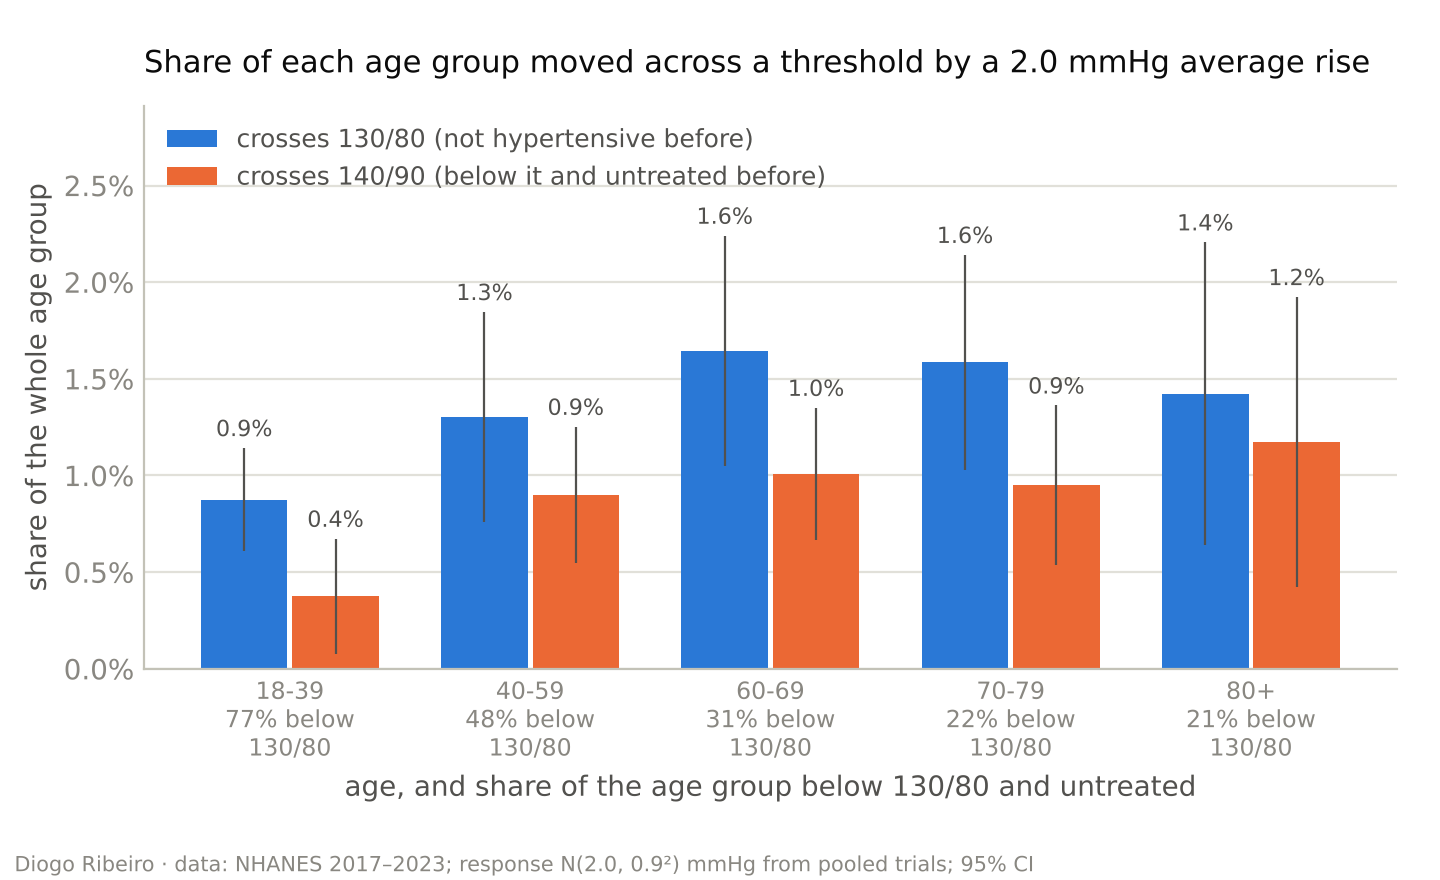
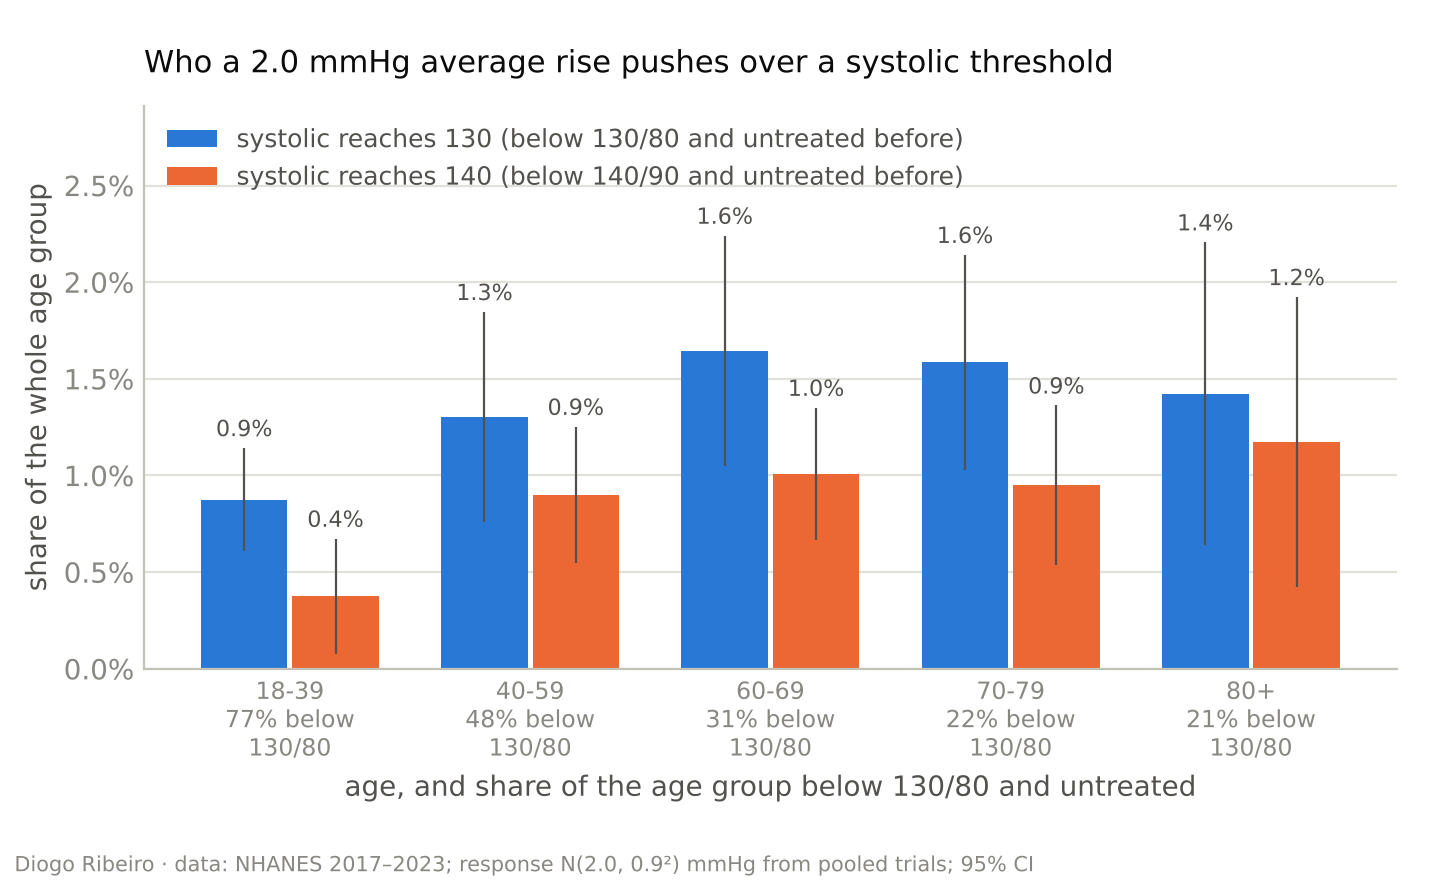
Age-cutoff errors with CVD counted as high risk; PCE test against printed guideline values; figure labels [skip ci]

Changed region(s): [[0.1562, 0.1227, 0.6875, 0.2148], [0.0938, 0.0614, 0.9688, 0.092]]

diff --git a/prescribing-individuals/prescribing/analyse.py b/prescribing-individuals/prescribing/analyse.py
@@ -177,7 +177,7 @@ def nhanes_absolute_risk(df: pd.DataFrame, mu: float, tau: float, shifts=(2.0, 5
     return pd.DataFrame(rows)
 
 
-RISK_CUTS = (0.075, 0.20)   # guideline categories: below 7.5%, 7.5-20%, 20% or more
+RISK_CUTS = (0.075, 0.20)   # 2019 ACC/AHA primary-prevention categories: below 7.5%, 7.5-20%, 20% or more
 
 
 def nhanes_risk_spread(x: pd.DataFrame) -> pd.DataFrame:
@@ -205,25 +205,38 @@ def nhanes_risk_spread(x: pd.DataFrame) -> pd.DataFrame:
     return pd.DataFrame(rows)
 
 
-def age_rule(x: pd.DataFrame, cutoffs=(65, 70), high=RISK_CUTS[1]) -> pd.DataFrame:
-    """An age cutoff judged as a classifier of high 10-year cardiovascular risk.
-
-    Among adults 40-79 without cardiovascular history: of the people the rule would
-    exclude (age >= cutoff), the share who are not at high risk; of the people at high
-    risk, the share the rule would let through (age < cutoff). Survey-weighted.
-    """
-    hi_risk = (x["r0"] >= high).astype(float)
+def _rule_errors(y: pd.DataFrame, cutoffs) -> list[dict]:
     rows = []
     for c in cutoffs:
-        older = x["age"] >= c
-        excl = stats.survey_mean(1 - hi_risk, x["w_osc"], x["stratum"], x["psu"], older)
-        miss = stats.survey_mean((~older).astype(float), x["w_osc"], x["stratum"], x["psu"], hi_risk.astype(bool))
-        rows.append({"cutoff": c, "high_risk_threshold": high,
+        older = y["age"] >= c
+        excl = stats.survey_mean(1 - y["high"], y["w_osc"], y["stratum"], y["psu"], older)
+        miss = stats.survey_mean((~older).astype(float), y["w_osc"], y["stratum"], y["psu"], y["high"].astype(bool))
+        rows.append({"cutoff": c,
                      "excluded_not_high_risk": excl.est, "excluded_not_high_risk_se": excl.se,
                      "n_excluded": excl.n,
                      "high_risk_below_cutoff": miss.est, "high_risk_below_cutoff_se": miss.se,
                      "n_high_risk": miss.n})
-    return pd.DataFrame(rows)
+    return rows
+
+
+def age_rule(x: pd.DataFrame, df: pd.DataFrame | None = None, cutoffs=(65, 70), high=RISK_CUTS[1]) -> pd.DataFrame:
+    """An age cutoff judged as a classifier of high 10-year cardiovascular risk.
+
+    Main population: adults 40-79 without cardiovascular history (the rows of x).
+    Of the people the rule would exclude (age >= cutoff), the share who are not at
+    high risk; of the people at high risk, the share the rule would let through
+    (age < cutoff). Survey-weighted. If df is given, a second version adds the
+    adults 40-79 with cardiovascular history and counts all of them as high risk.
+    """
+    y = x[["age", "w_osc", "stratum", "psu"]].assign(high=(x["r0"] >= high).astype(float))
+    rows = [dict(r, population="no cardiovascular history") for r in _rule_errors(y, cutoffs)]
+    if df is not None:
+        d = nhanes_frame(df)
+        c = d[(d["w_osc"] > 0) & d["age"].between(40, 79) & ~d["pregnant"].fillna(False).astype(bool) & d["cvd"]]
+        y2 = pd.concat([y, c[["age", "w_osc", "stratum", "psu"]].assign(high=1.0)], ignore_index=True)
+        rows += [dict(r, population="with cardiovascular history counted as high risk")
+                 for r in _rule_errors(y2, cutoffs)]
+    return pd.DataFrame(rows).assign(high_risk_threshold=high)
 
 
 def nhanes_replicates(df: pd.DataFrame) -> pd.DataFrame:

diff --git a/prescribing-individuals/prescribing/figures.py b/prescribing-individuals/prescribing/figures.py
@@ -84,8 +84,8 @@ def fig_crossing(cross: pd.DataFrame, params: dict):
     fig, ax = plt.subplots(figsize=(7.2, 4.4))
     xs = np.arange(len(cross))
     w = 0.36
-    bars = [("hetero", "hetero_se", "crosses 130/80 (not hypertensive before)", SERIES[0]),
-            ("hetero_140", "hetero_140_se", "crosses 140/90 (below it and untreated before)", SERIES[1])]
+    bars = [("hetero", "hetero_se", "systolic reaches 130 (below 130/80 and untreated before)", SERIES[0]),
+            ("hetero_140", "hetero_140_se", "systolic reaches 140 (below 140/90 and untreated before)", SERIES[1])]
     top = max((cross[c] + 1.96 * cross[se]).max() for c, se, _, _ in bars)
     for j, (c, se, lab, col) in enumerate(bars):
         off = (j - 0.5) * (w + 0.02)
@@ -102,7 +102,7 @@ def fig_crossing(cross: pd.DataFrame, params: dict):
     ax.set_xlabel("age, and share of the age group below 130/80 and untreated")
     ax.set_ylabel("share of the whole age group")
     _legend(ax, loc="upper left")
-    ax.set_title(f"Share of each age group moved across a threshold by a {params['mu']:.1f} mmHg average rise",
+    ax.set_title(f"Who a {params['mu']:.1f} mmHg average rise pushes over a systolic threshold",
                  loc="left", fontsize=11, pad=12)
     fig.subplots_adjust(left=0.1, right=0.97, top=0.88, bottom=0.24)
     _save(fig, "fig2_threshold_crossing.png",

diff --git a/prescribing-individuals/prescribing/report.py b/prescribing-individuals/prescribing/report.py
@@ -54,7 +54,7 @@ def compute() -> dict:
         x = analyse.risk_frame(df, mu, tau)
         if len(x):
             out["risk_spread"] = analyse.nhanes_risk_spread(x)
-            out["age_rule"] = analyse.age_rule(x)
+            out["age_rule"] = analyse.age_rule(x, df)
         out["replicates"] = analyse.nhanes_replicates(df)
         out["stim_by_band"], out["stim_by_cycle"] = analyse.nhanes_stimulants(df)
     if (DATA / "faers_counts.csv.gz").exists():
@@ -104,7 +104,7 @@ def write(out: dict) -> str:
             if "risk_spread" in out:
                 p("\n  spread of 10-year risk (risk_*) and of the extra risk from +5 mmHg (extra5_*) inside each age band")
                 p(out["risk_spread"].to_string(index=False))
-                p("\n  an age cutoff as a classifier of high 10-year risk (20% or more), adults 40-79 without CVD")
+                p("\n  an age cutoff as a classifier of high 10-year risk (20% or more), adults 40-79")
                 p(out["age_rule"].to_string(index=False))
             p("\n  within-visit SD of replicate systolic readings and readings needed (each period) for 80% power")
             p(out["replicates"].to_string(index=False))

diff --git a/prescribing-individuals/tests/test_cvrisk.py b/prescribing-individuals/tests/test_cvrisk.py
@@ -4,10 +4,12 @@ from prescribing.cvrisk import pce_risk
 
 
 @pytest.mark.parametrize("female,black,expected", [(True, False, 0.021), (True, True, 0.030),
-                                                   (False, False, 0.054), (False, True, 0.061)])
+                                                   (False, False, 0.053), (False, True, 0.061)])
 def test_guideline_worked_example(female, black, expected):
+    """Values printed in Goff et al. (2014); the guideline rounds its intermediate sums,
+    so agreement is to within 0.1 percentage point."""
     r = pce_risk([55], [female], [black], [213], [50], [120], [False], [0], [0])[0]
-    assert round(r, 3) == pytest.approx(expected, abs=0.0005)
+    assert r == pytest.approx(expected, abs=0.001)
 
 
 def test_risk_rises_with_systolic_pressure():

diff --git a/prescribing-individuals/prescribing/cvrisk.py b/prescribing-individuals/prescribing/cvrisk.py
@@ -7,8 +7,11 @@ adults are used for people of other races and ethnicities.
 
 The implementation reproduces the guideline's worked example (age 55, total
 cholesterol 213 mg/dL, HDL 50 mg/dL, untreated systolic 120 mmHg, non-smoker,
-no diabetes): 2.1% for white women, 3.0% for African American women, 5.4% for
-white men and 6.1% for African American men (see tests/test_cvrisk.py).
+no diabetes) to within 0.1 percentage point: the guideline prints 2.1% for white
+women, 3.0% for African American women, 5.3% for white men and 6.1% for African
+American men; this code gives 5.38% for white men because the guideline rounds
+the intermediate sum (60.69 against 60.6995) before exponentiating (see
+tests/test_cvrisk.py).
 """
 
 from __future__ import annotations
